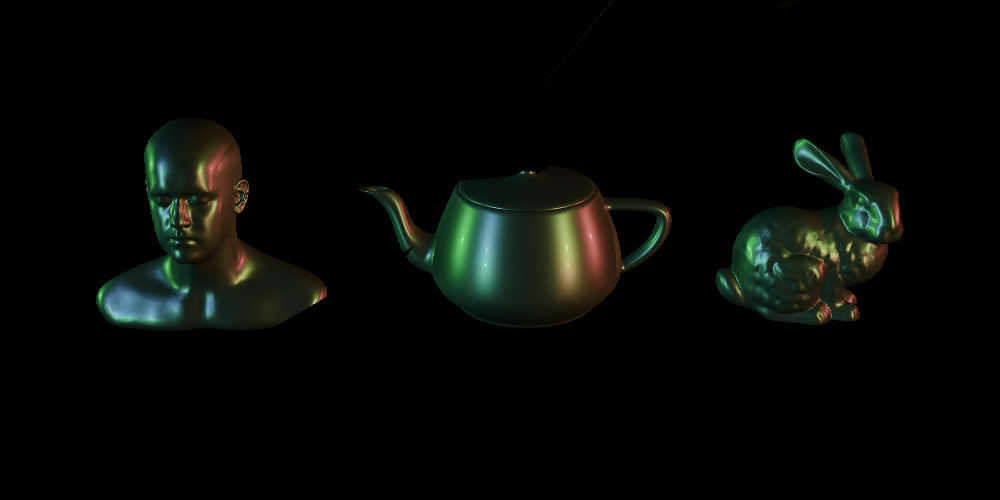
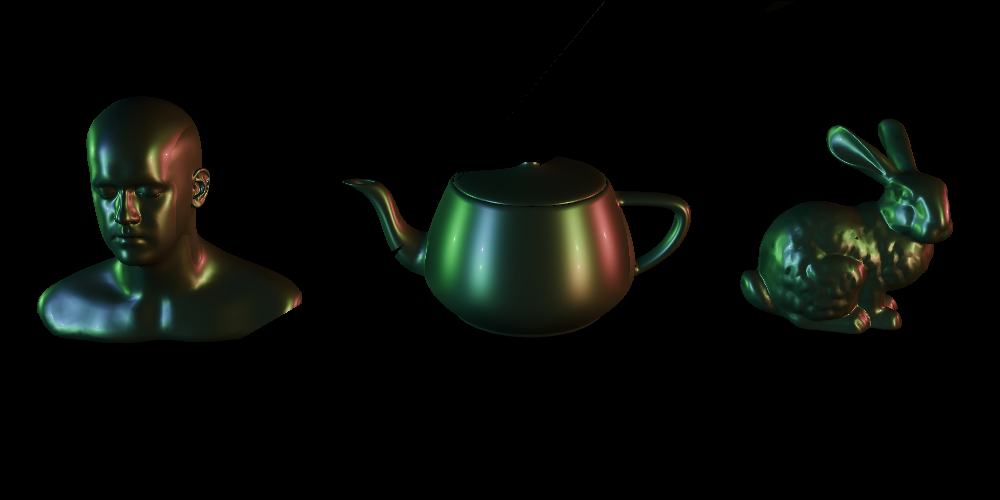
completely done

diff --git a/Win3D/src/applications/Applications.cpp b/Win3D/src/applications/Applications.cpp
@@ -105,15 +105,15 @@ void Apps::objectsApp(RenderType type) {
     /* ----------------------------------------- scene ----------------------------------------- */
 
     Mesh* head = scene.addObject(Wavefront::loadWavefront("head_17684.obj", Colour::white() * 0.6));
-    head->setTranslation(Matrix::translate(-225, -60, 800));
+    head->setTranslation(Matrix::translate(-225, -60, 700));
     head->setRotation(Matrix::rotation(0, -std::numbers::pi/8, std::numbers::pi));
 
     Mesh* teapot = scene.addObject(Wavefront::loadWavefront("teapot_15404.obj", Colour::white() * 0.6));
-    teapot->setTranslation(Matrix::translate(25, -50, 1000));
+    teapot->setTranslation(Matrix::translate(25, -50, 900));
     teapot->setRotation(Matrix::rotation(0, -std::numbers::pi/8, std::numbers::pi));
 
     Mesh* bunny = scene.addObject(Wavefront::loadWavefront("bunny_21606.obj", Colour::white() * 0.6));
-    bunny->setTranslation(Matrix::translate(275, -50, 1000));
+    bunny->setTranslation(Matrix::translate(275, -50, 900));
     bunny->setRotation(Matrix::rotation(0, -std::numbers::pi/8, std::numbers::pi));
 
     scene.addLight(PointLight(Vector(1100, -100, 0), Colour{255, 55, 55}));